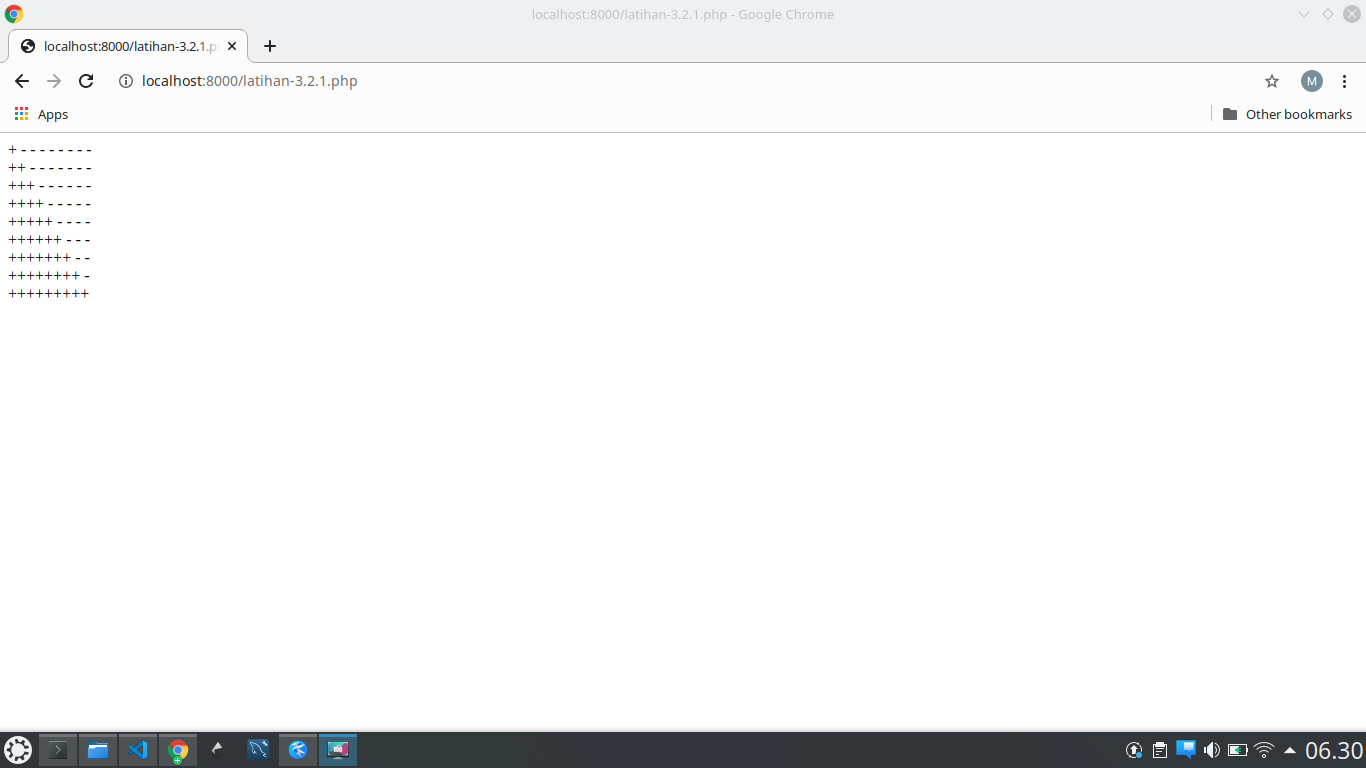
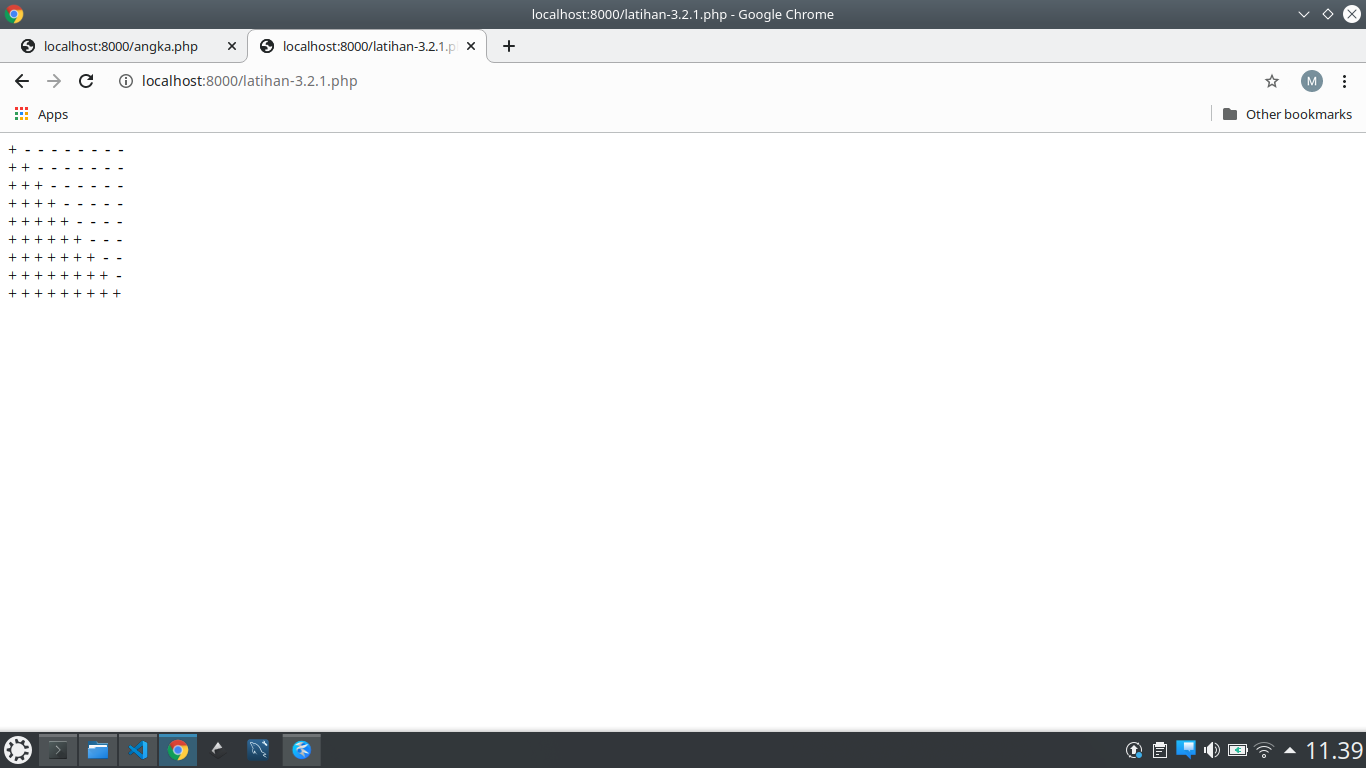
backend

diff --git a/sprint-1/topik-3/tugas-2/latihan-3.2.4.php b/sprint-1/topik-3/tugas-2/latihan-3.2.4.php
@@ -1,25 +1,18 @@
 <?php
 $n = 9;
-for ($p = 0; $p < $n; $p++)
+for ($i = 1; $i <= $n; $i++)
 {
-    for ($m = 0; $m < $n; $m++)
+    for ($j = 1; $j <= $n; $j++)
     {
-        if ($p == 0 or $p == 4 or $p == 8)
+        if ($i == 1 || $i == 5 || $i == 9 || $j == 1 && $j + $i <= 6 || $j == 9 && $j + $i >= 14 )
         {
-            echo "+ ";
-        }
-        else if ($p <= 3 and $m == 0)
-        {
-            echo "+ ";
-        }
-        else if ($p >= 5 and $m == 8)
-        {
-            echo "+ ";
+            echo "+";
         }
         else
         {
-            echo "&nbsp- ";
+            echo "&nbsp-";
         }
+        echo " ";
     }
     echo "<br/>";
 }

diff --git a/sprint-1/topik-3/tugas-2/latihan-3.2.3.php b/sprint-1/topik-3/tugas-2/latihan-3.2.3.php
@@ -1,21 +1,18 @@
 <?php
 $n = 9;
-for ($p = 0; $p < $n; $p++)
+for ($i = 1; $i <= $n; $i++)
 {
-    for ($m = 0; $m < $n; $m++)
+    for ($j = 1; $j <= $n; $j++)
     {
-        if (($p + $m) <= 8 and $p <= $m)
+        if ($i + $j <= 10 && $i <= $j || $i + $j >= 10 && $i >= $j)
         {
-            echo "+ ";
-        }
-        else if (($p + $m) <= 16 and ($p + $m) > 7 and $p >= $m)
-        {
-            echo "+ ";
+            echo "+";
         }
         else
         {
-            echo "&nbsp- ";
+            echo "&nbsp-";
         }
+        echo " ";
     }
     echo "<br/>";
 }

diff --git a/sprint-1/topik-3/tugas-2/latihan-3.2.2.php b/sprint-1/topik-3/tugas-2/latihan-3.2.2.php
@@ -1,14 +1,18 @@
 <?php
 $n = 9;
-for ($t = 1; $t <= $n; $t++)
+for ($i = 1; $i <= $n; $i++)
 {
-    for ($p = $n; $p > $t; $p--)
+    for ($j = 1; $j <= $n; $j++)
     {
-        echo "&nbsp-";
+        if ($i + $j < 10)
+        {
+            echo "&nbsp-";
+        }
+        else
+        {
+            echo "+";
+        }
+        echo " ";
     }
-    for ($m = 1; $m <= $p; $m++)
-    {
-        echo "+";
-    }
-    echo "<br>";
+    echo "<br/>";
 }

diff --git a/sprint-1/topik-3/tugas-2/latihan-3.2.1.php b/sprint-1/topik-3/tugas-2/latihan-3.2.1.php
@@ -1,14 +1,18 @@
 <?php
 $n = 9;
-for ($t = 1; $t <= $n; $t++)
+for ($i = 1; $i <= $n; $i++)
 {
-    for ($p = 1; $p <= $t; $p++)
+    for ($j = 1; $j <= $n; $j++)
     {
-        echo "+";
+        if ($i >= $j)
+        {
+            echo "+";
+        }
+        else
+        {
+            echo "&nbsp-";
+        }
+        echo " ";
     }
-    for ($m = $n; $m >= $p; $m--)
-    {
-        echo "&nbsp-";
-    }
-    echo "<br>";
+    echo "<br/>";
 }
